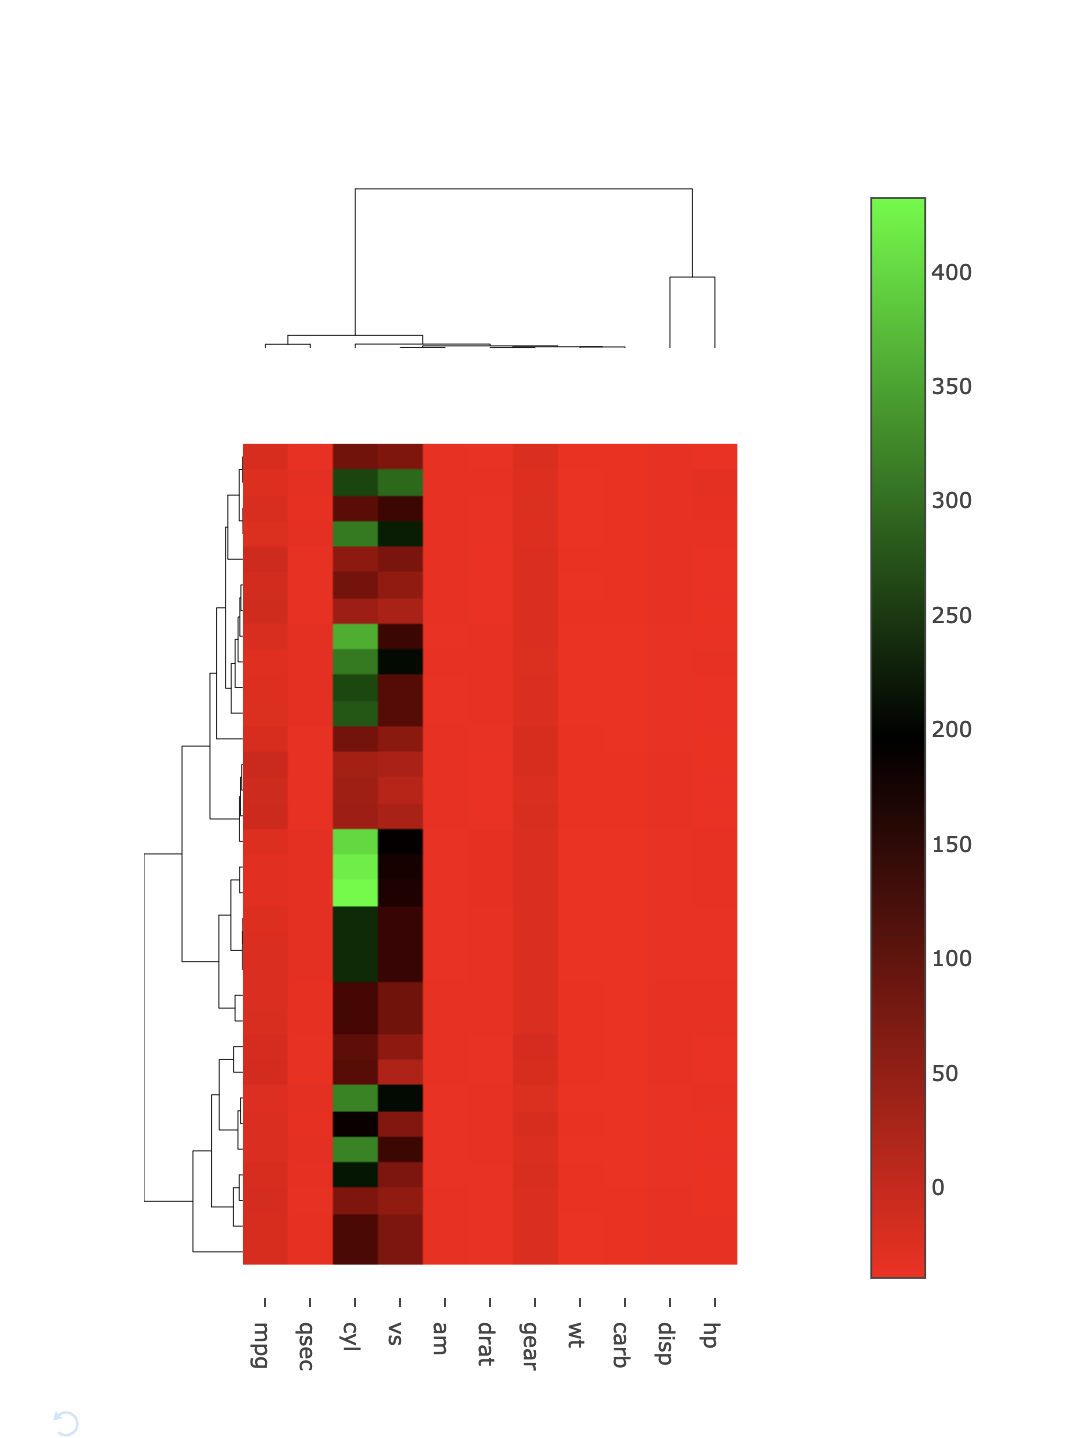
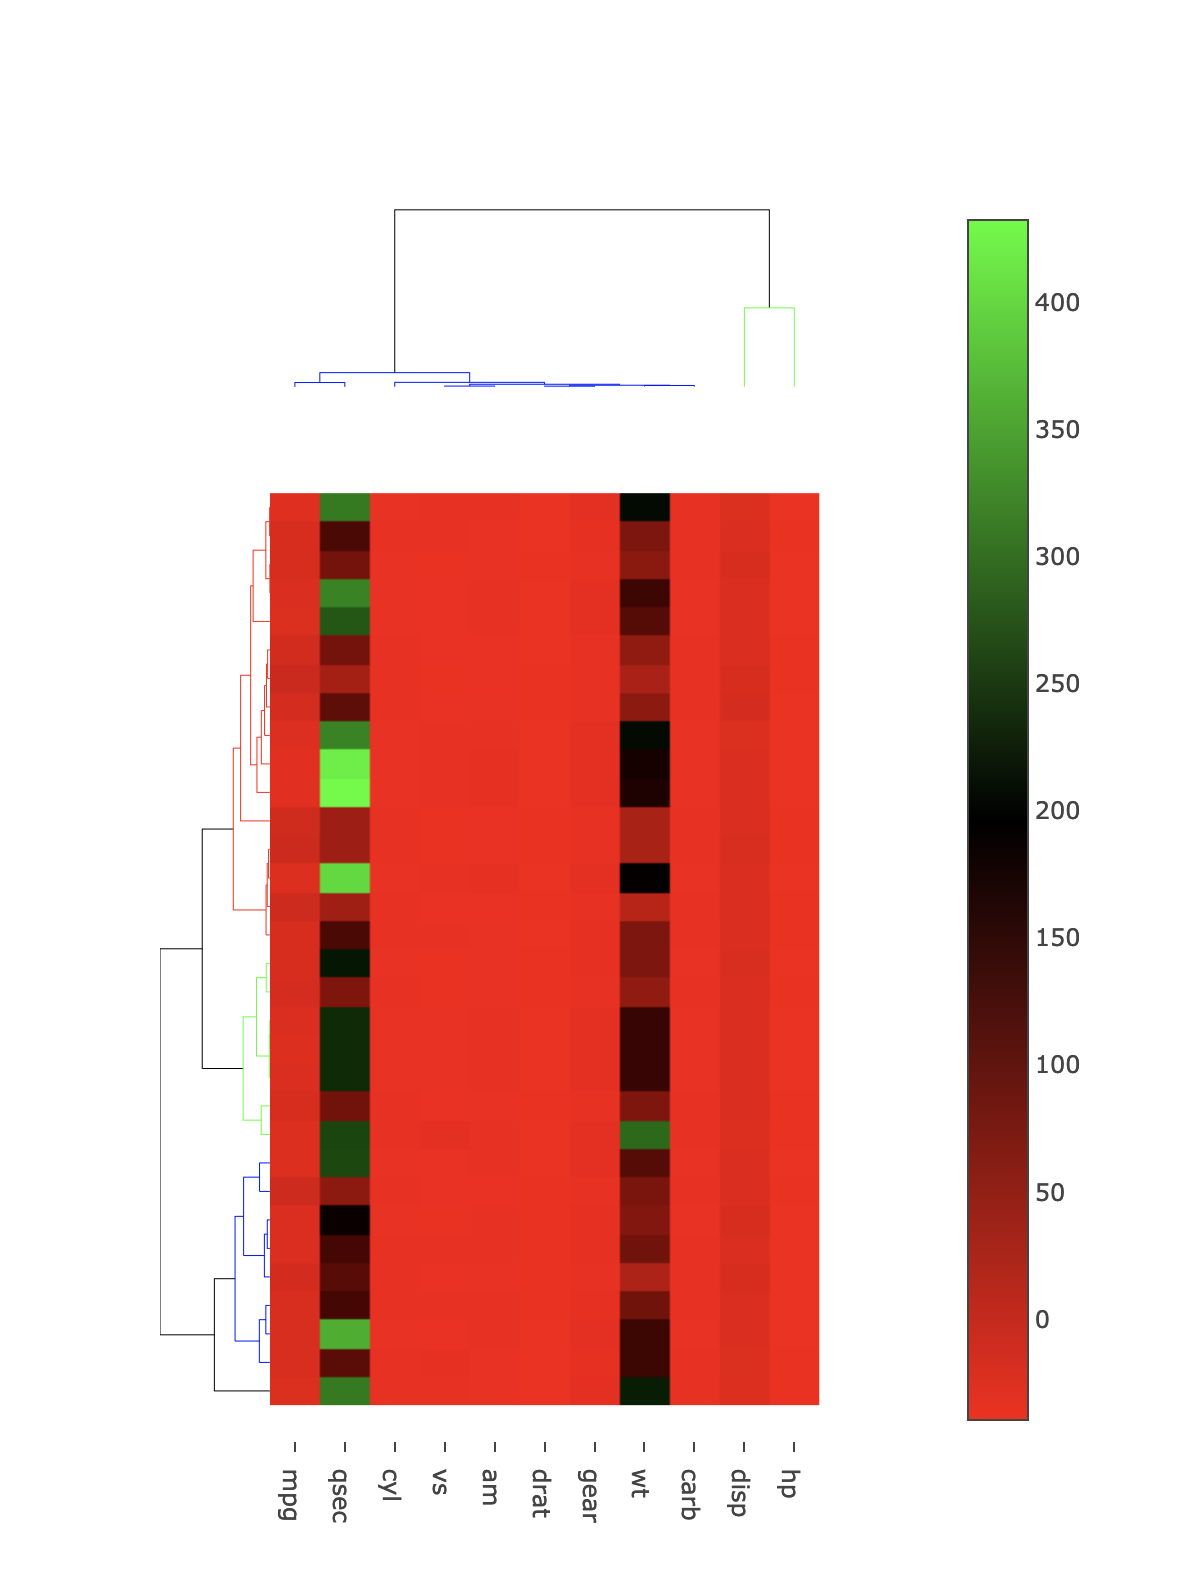
Update clustergram and image.
Demonstrate clustering.

diff --git a/components/clustergram.py b/components/clustergram.py
@@ -9,12 +9,13 @@ df = pd.read_csv('https://raw.githubusercontent.com/plotly/dash-bio/master/tests
 data = df.values
 
 component = dcc.Graph(figure=dashbio.Clustergram(
-  data=data,
-  column_labels=list(df.columns.values),
-  row_labels=list(df.index),
-  hide_labels=['row'],
-  height=800,
-  width=600
+    data=data,
+    column_labels=list(df.columns.values),
+    color_threshold={'row': 150, 'col': 700},
+    row_labels=list(df.index),
+    hide_labels=['row'],
+    height=800,
+    width=600
 )[0])
 
 component_image = html.Img(
